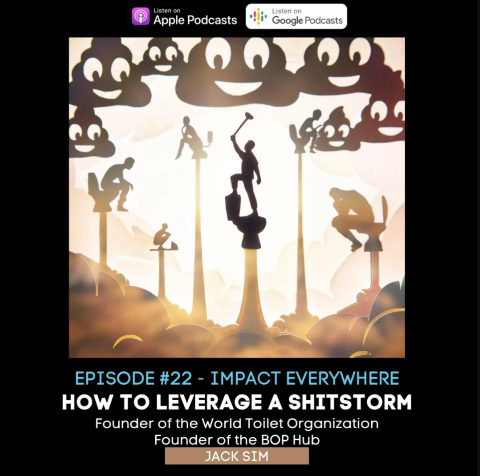
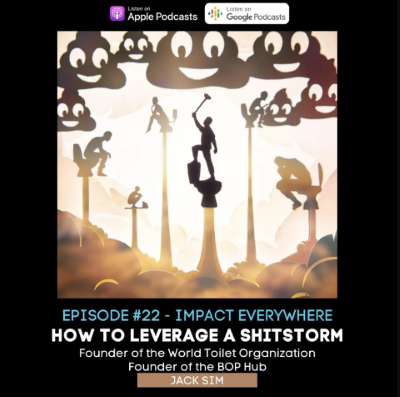
resized assets

diff --git a/README.md b/README.md
@@ -66,8 +66,9 @@
 Sample episodes worked on:  
 [![Michelle Thaller](assets/img/m-thaller.png)](https://medium.com/impact-everywhere/michelle-thaller-curiosity-podcast-852a5818c370 "The Unexpected Benefits of Investing in Curiosity ft. NASA Research Scientist Michelle Thaller")  &nbsp;&nbsp;&nbsp;&nbsp;
 [![Jack Sim](assets/img/jack-sim.png)](https://medium.com/impact-everywhere/jack-sim-toilet-podcast-11aa7937040b "Creating a Shitstorm for Good with Jack Sim")  &nbsp;&nbsp;&nbsp;&nbsp;
-[![Archspire - BtF Behind-the-scenes](https://img.youtube.com/vi/vfbZmXtOA0c/mqdefault.jpg)](https://youtu.be/vfbZmXtOA0c?si=pMwhzOc9pq_gEahV&t=66 "Archspire - BtF Behind-the-scenes")  &nbsp;&nbsp;&nbsp;&nbsp;
-[![CBC Vancouver - Departure Lounge](https://img.youtube.com/vi/LGD44qzIxpg/mqdefault.jpg)](https://www.youtube.com/watch?v=LGD44qzIxpg "CBC Vancouver - Departure Lounge") 
+[![Josh Balk](assets/img/josh-balk.png)](https://medium.com/impact-everywhere/josh-balk-plant-based-podcast-9a8aa6118792 "Humanity on Our Plates ft. Josh Balk")  &nbsp;&nbsp;&nbsp;&nbsp;
+[![Charly Kleissner](assets/img/c-kleissner.png)](https://medium.com/impact-everywhere/charly-kleissner-impact-investment-podcast-fcce30cfb41d "Pioneering the world of Deep Impact Investing ft. Dr. Charly Kleissner, Co-Founder of KLF, Toniic, and ImpactAssets")  
+[![Alison Teal](assets/img/alison-teal.png)](https://medium.com/impact-everywhere/alison-teal-social-influence-podcast-4a0f6a56d3f3 "The Intersection of Social Influence and Impact ft. Alison Teal")
 
 
 
